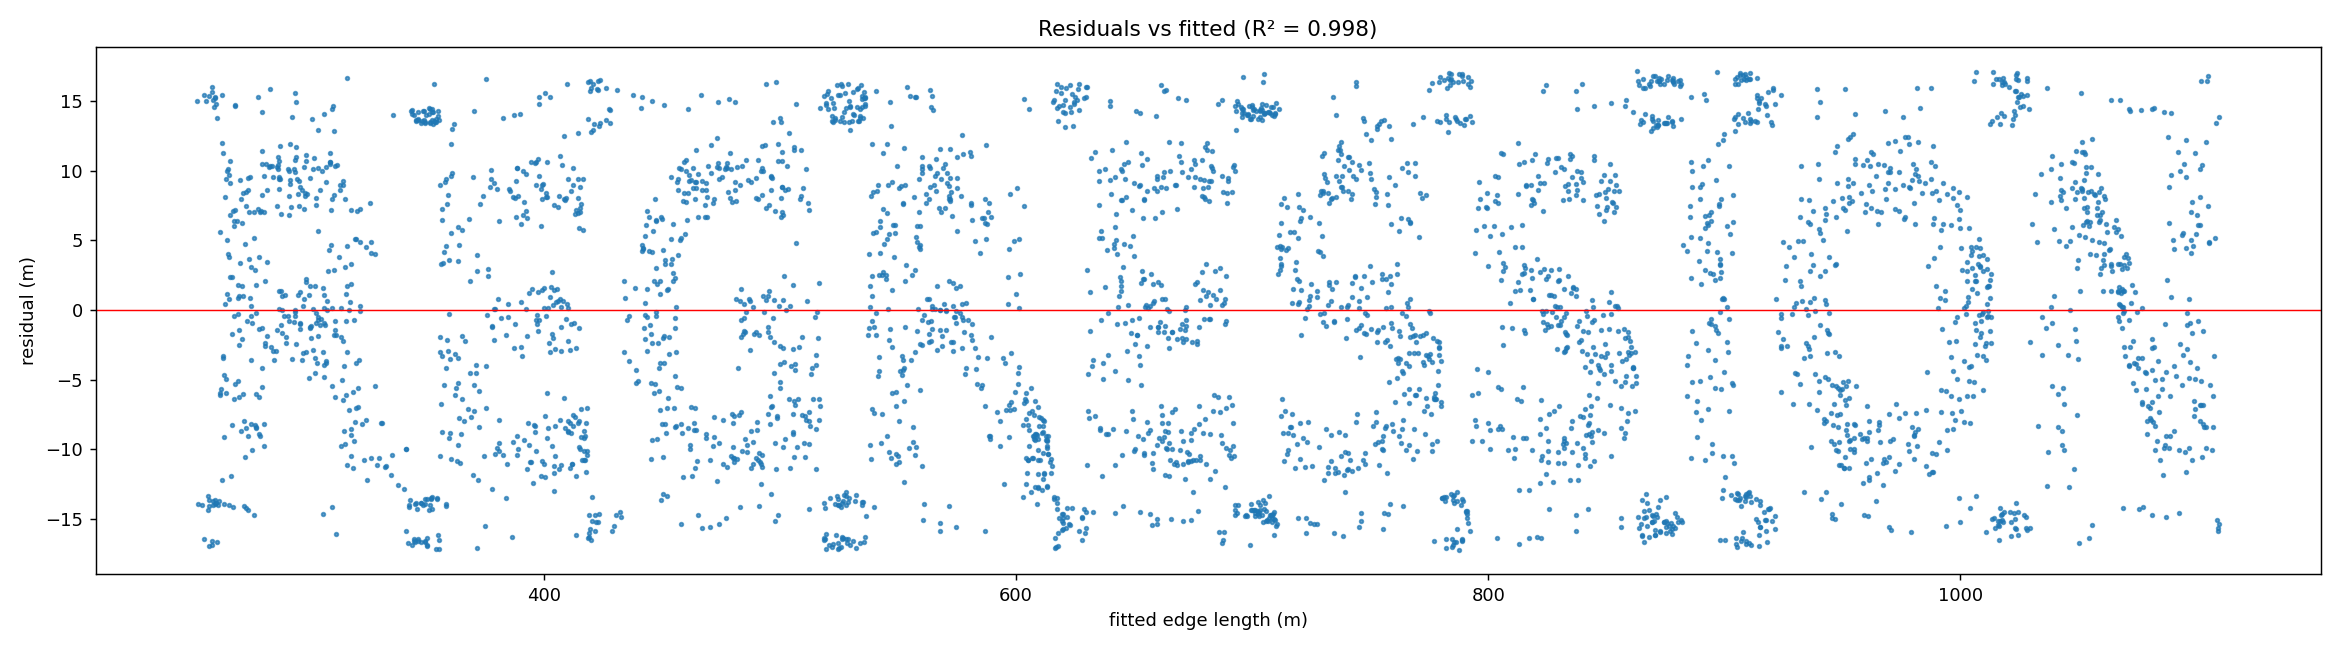
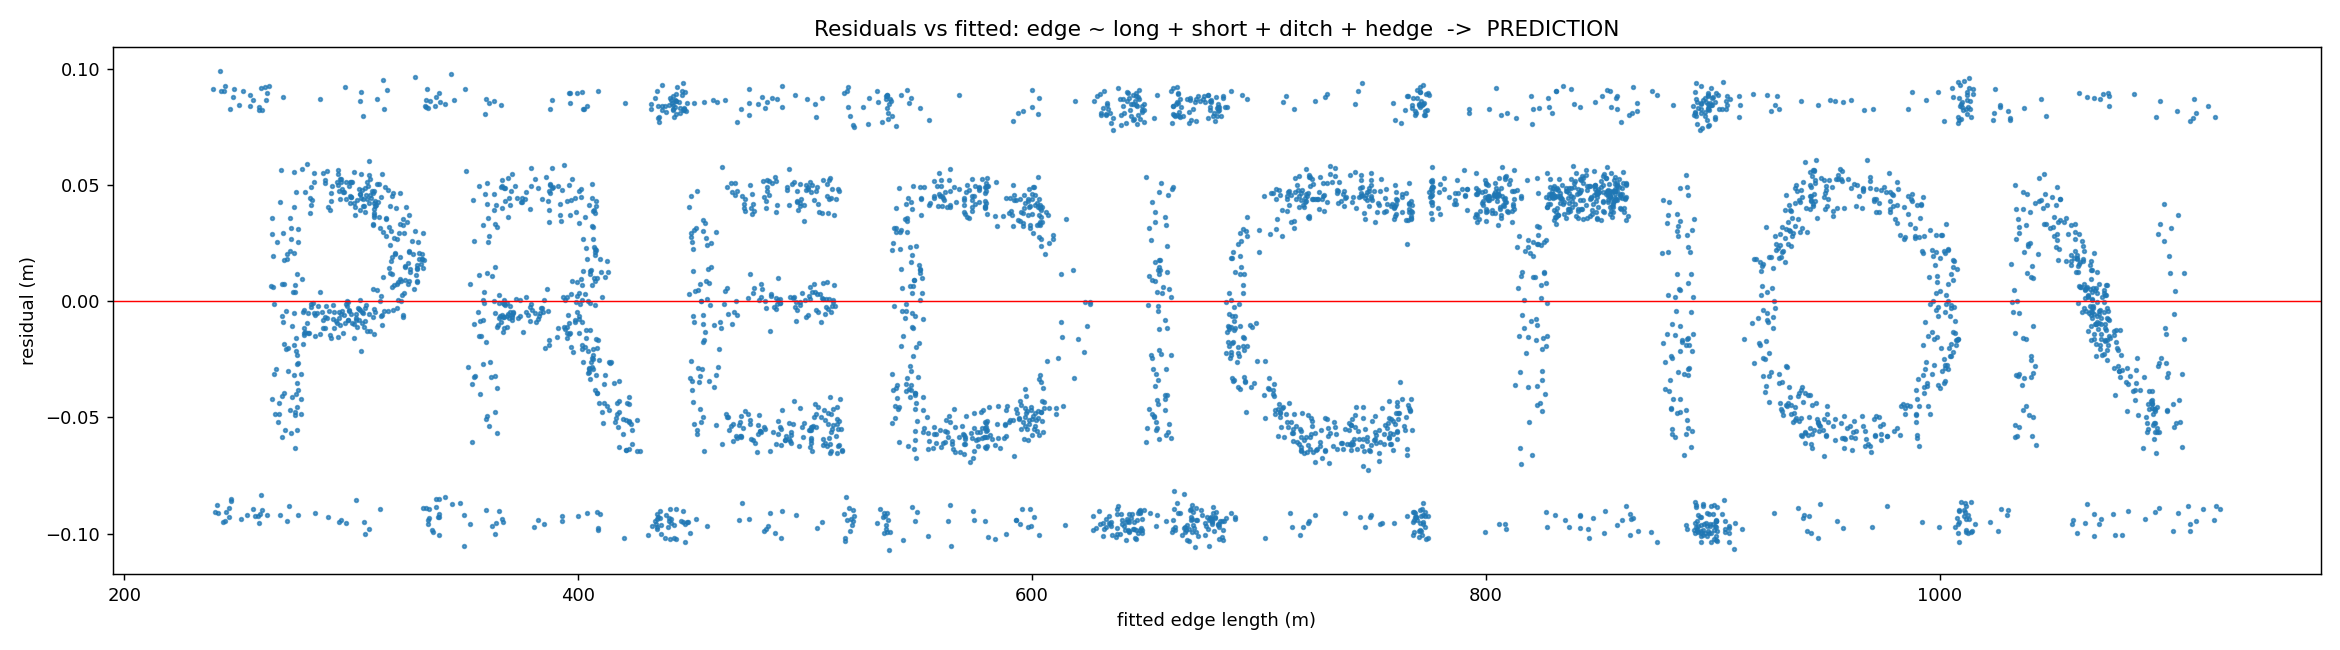
Fit full edge-length model in Belgium/: hidden word is PREDICTION
REGRESSION (long + short) and SUPERVISION (+ ditch) were decoy layers.
Adding Mariette's hedge_m gives the exact fit
edge = 0.82*(long + short) + ditch + hedge, whose residuals vs fitted
values spell PREDICTION.

diff --git a/Belgium/fit.py b/Belgium/fit.py
@@ -1,4 +1,14 @@
-"""Fry-ndship: model potato-field edge length and plot the residuals."""
+"""Fry-ndship: model potato-field edge length and plot the residuals.
+
+The residuals hide a word at every level of the model. Each extra column
+explains the previous word away and reveals the next one:
+  long + short sides                    -> REGRESSION   (decoy)
+  + ditch_m (farmer's declaration)      -> SUPERVISION  (decoy)
+  + hedge_m (Mariette's own observation) -> PREDICTION
+With all four terms the fit is exact
+(edge = 0.82*(long + short) + ditch + hedge, intercept 0), and the
+remaining +-0.1 m residuals spell the word Mariette observed: PREDICTION.
+"""
 import sys
 from pathlib import Path
 import numpy as np
@@ -9,22 +19,20 @@ HERE = Path(__file__).resolve().parent
 path = sys.argv[1] if len(sys.argv) > 1 else HERE / "potato_fields.csv"
 df = pd.read_csv(path)
 
-# Geometry: a rectangle with long side L and area A has short side A/L,
-# so its perimeter is 2*(L + A/L).
-L = df["long_side_m"]
-short = df["area_ha"] * 10_000 / L
-df["short_side_m"] = short
+# Geometry: a rectangle with long side L and area A has short side A/L.
+df["short_side_m"] = df["area_ha"] * 10_000 / df["long_side_m"]
 
-# Model: edge = b0 + b1*long_side + b2*short_side  (ordinary least squares)
-X = np.column_stack([np.ones(len(df)), L, short])
+# Model: edge = b0 + b1*long + b2*short + b3*ditch + b4*hedge  (least squares)
+cols = ["long_side_m", "short_side_m", "ditch_m", "hedge_m"]
+X = np.column_stack([np.ones(len(df))] + [df[c] for c in cols])
 y = df["edge_m"].to_numpy()
 beta, *_ = np.linalg.lstsq(X, y, rcond=None)
 df["fitted"] = X @ beta
 df["resid"] = y - df["fitted"]
 
 r2 = 1 - (df["resid"] ** 2).sum() / ((y - y.mean()) ** 2).sum()
-print(f"edge = {beta[0]:.2f} + {beta[1]:.3f}*long_side + {beta[2]:.3f}*short_side")
-print(f"R^2 = {r2:.4f}")
+print("coefficients:", dict(zip(["intercept"] + cols, beta.round(4))))
+print(f"R^2 = {r2:.8f}")
 
 # Residuals vs fitted values: the points spell the hidden word.
 fig, ax = plt.subplots(figsize=(18, 5))
@@ -32,7 +40,7 @@ ax.scatter(df["fitted"], df["resid"], s=4, alpha=0.7)
 ax.axhline(0, color="red", lw=0.8)
 ax.set_xlabel("fitted edge length (m)")
 ax.set_ylabel("residual (m)")
-ax.set_title(f"Residuals vs fitted (R² = {r2:.3f})")
+ax.set_title("Residuals vs fitted: edge ~ long + short + ditch + hedge  ->  PREDICTION")
 fig.tight_layout()
 fig.savefig(HERE / "residuals_vs_fitted.png", dpi=130)
 print("saved residuals_vs_fitted.png")
